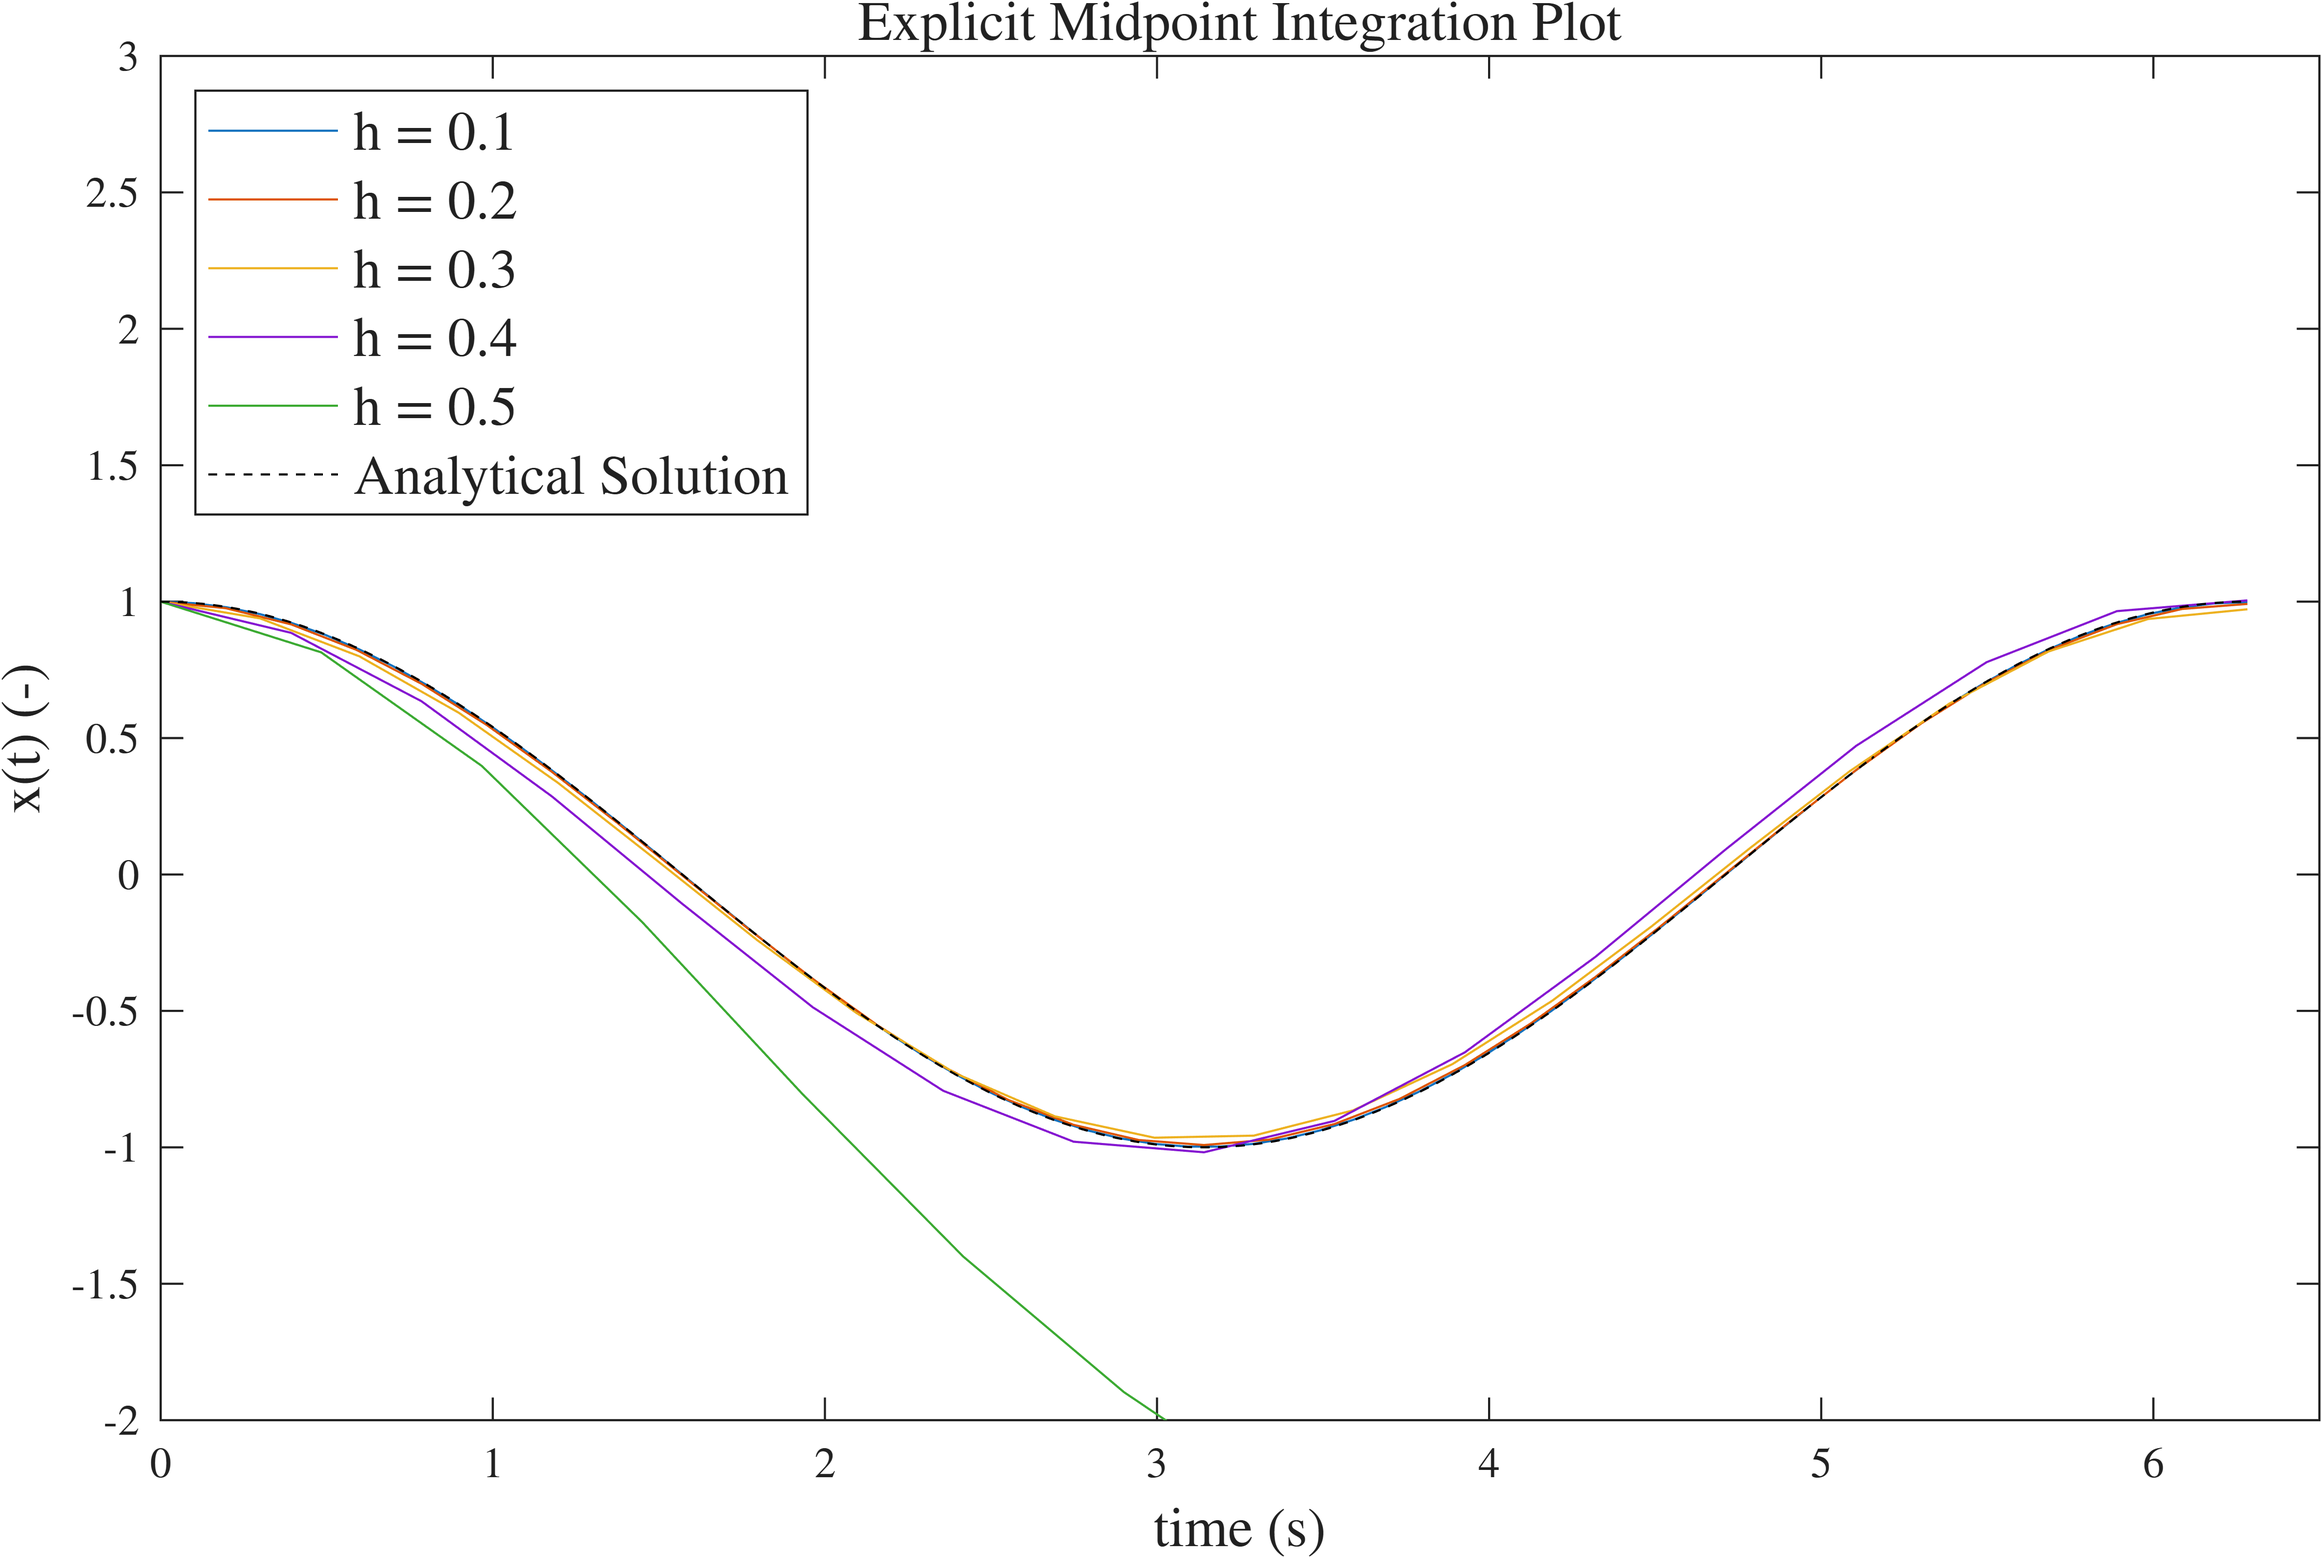
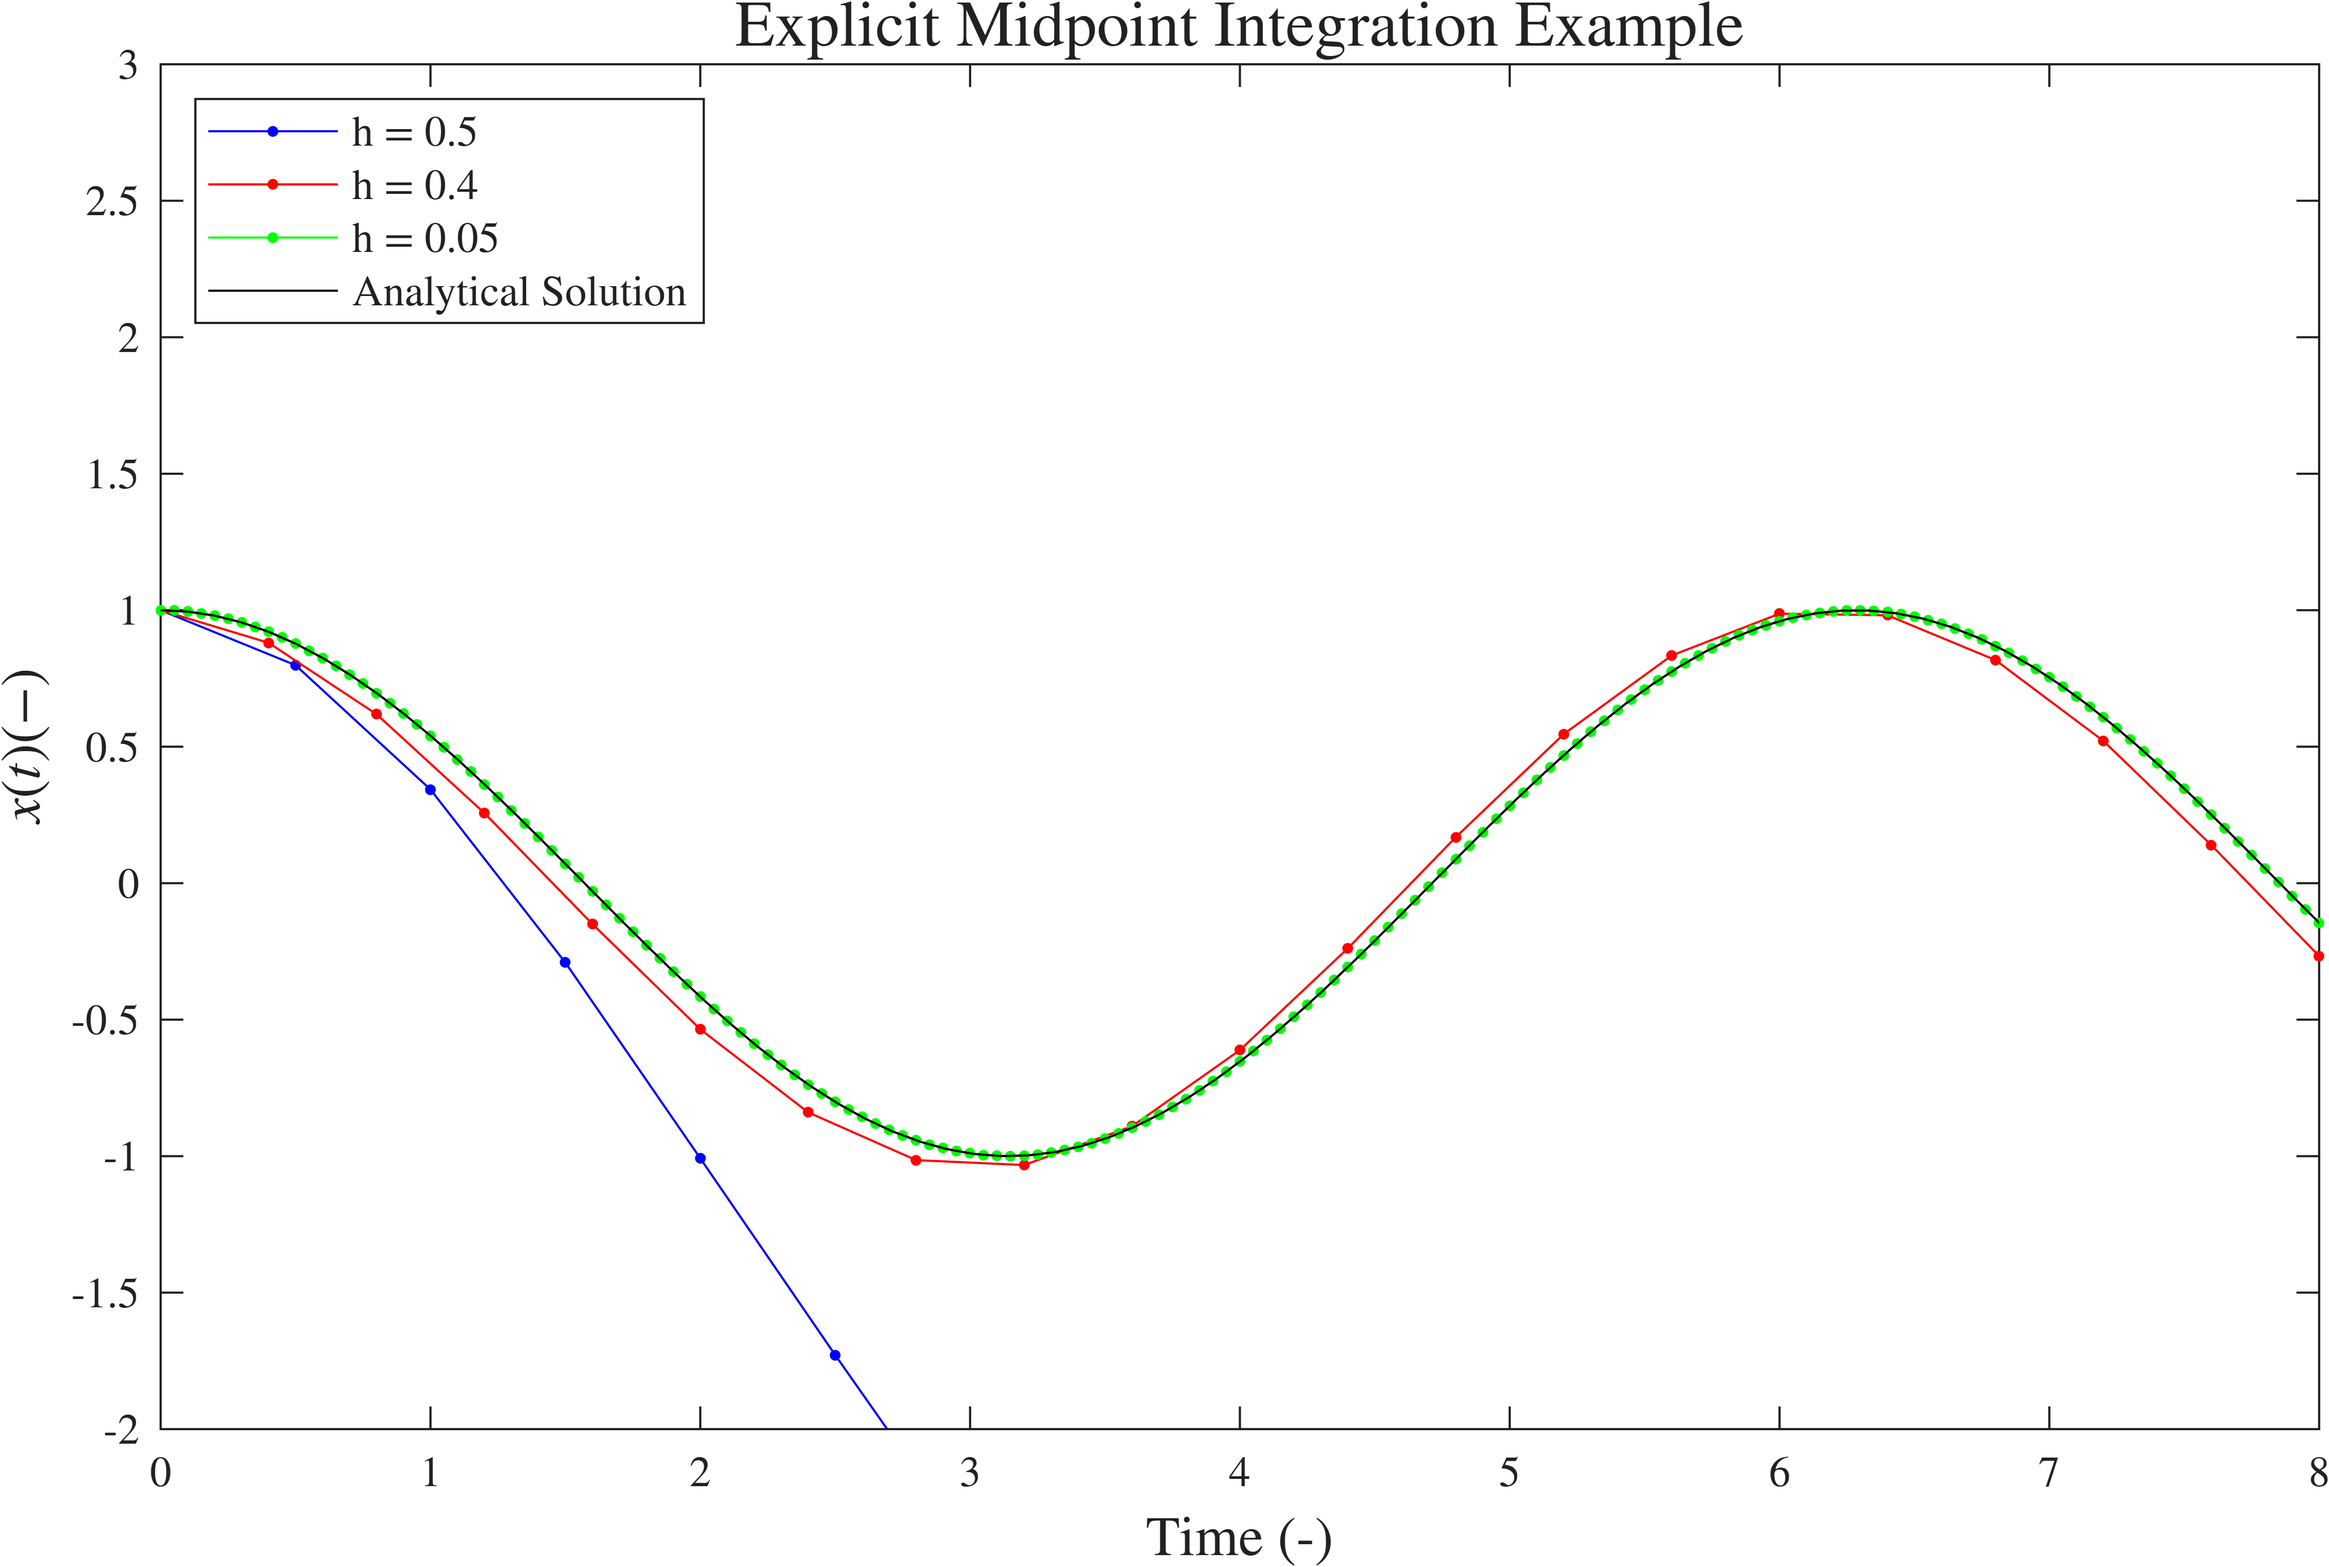
plots

diff --git a/stability_plot.m b/stability_plot.m
@@ -6,12 +6,12 @@ function stability_plot()
     set(groot, 'defaultAxesTickLabelInterpreter', 'latex');
     set(groot, 'defaultLegendInterpreter', 'latex');
     functions = ["forward_euler_step", "explicit_midpoint_step", "implicit_midpoint_step","backward_euler_step"];
-    names = ["Forward Euler Step", "Explicit Midpoint Step", "Implicit Midpoint Step","Backward Euler Step"];
+    names = ["Forward Euler", "Explicit Midpoint", "Implicit Midpoint Step","Backward Euler Step"];
 
 
     tspan = [0,20];
     X0 = solution01(tspan(1));
-    h = .45
+    h = .38
     t = tiledlayout(4, 1, 'TileSpacing', 'compact', 'Padding', 'compact');
     for i = 1:length(functions)
             nexttile
@@ -19,24 +19,27 @@ function stability_plot()
         step_func = str2func(functions(i));
         [t_list,numerical_Xlist,h_avg, num_evals] = fixed_step_integration(@rate_func01,step_func,tspan,X0,h);
         %subplot(4,1,i);
-        plot(t_list, numerical_Xlist);
+        t_list2 = linspace(0,20,300);
+        analytical_Xlist = solution01(t_list2);
+        plot(t_list2, analytical_Xlist,'k','LineWidth',2)
         hold on
-        t_list = linspace(0,20,300);
-        analytical_Xlist = solution01(t_list);
-        plot(t_list, analytical_Xlist,'--k')
-        xlabel("time (s)",'FontSize',13)
-        ylabel("x(t) (-)",'FontSize',13)
-        title(names(i), 'FontSize',13)
+        plot(t_list, numerical_Xlist, 'ro','MarkerSize',4,'MarkerFaceColor','r');
+        plot(t_list, numerical_Xlist, 'r','LineWidth',1);
+
+        xlabel("Time (-)",'FontSize',15)
+        ylabel("$x(t) (-)$",'FontSize',15)
+        title(names(i), 'FontSize',15)
         axis([0 20 -2 3])
-    %     p = get(gca, 'Position');
+        ax = gca; 
+        ax.FontSize = 14;     %     p = get(gca, 'Position');
     % p(2) = p(2) - 0.05;  % Move bottom edge down
     % p(4) = p(4) + 0.05;  % Increase height
     % set(gca, 'Position', p);
     end
-    title(t, 'Integration Stability Plot at $h_{ref} = .45$', 'FontSize', 15, 'Interpreter', 'latex')    
+    title(t, 'Integration Stability Plot at $h_{ref} = .38$', 'FontSize', 15, 'Interpreter', 'latex')    
     l = legend("Numerical Solution","Analytical Solution",'FontSize',9 );
     l.Layout.Tile = 'north'; 
     l.FontSize = 13;
     myfig = gcf();
-    exportgraphics(myfig , 'stability_plot.png', 'Resolution', 600);
+    exportgraphics(myfig , 'stability_plot38.png', 'Resolution', 600);
 end

diff --git a/integration_plot.m b/integration_plot.m
@@ -4,23 +4,25 @@ function integration_plot(step_func)
     set(groot, 'defaultTextInterpreter', 'latex');
     set(groot, 'defaultAxesTickLabelInterpreter', 'latex');
     set(groot, 'defaultLegendInterpreter', 'latex');
-    tspan = [0,2*pi];
+    tspan = [0,20];
     X0 = solution01(tspan(1));
-    h_list = linspace(.1,1.5,5);
+    h_list = [.5,.4,.05];
     for i = 1:length(h_list)
+        color = ["blue","red","green"];
         [t_list,numerical_Xlist,h_avg, num_evals] = fixed_step_integration(@rate_func01,step_func,tspan,X0,h_list(i));
-        plot(t_list, numerical_Xlist)
+        plot(t_list, numerical_Xlist, 'Marker', 'o','Color',color(i),'MarkerSize',2,'MarkerFaceColor',color(i));
         hold on
+        %plot(t_list, numerical_Xlist,'Color',[h_list(i), h_list(i), h_list(i)])
     end
-    t_list = linspace(0,2*pi,200);
+    t_list = linspace(0,20,200);
     analytical_Xlist = solution01(t_list);
-    plot(t_list, analytical_Xlist,'--k')
-    l = legend("h = " + h_list(1), "h = " + h_list(2),"h = " + h_list(3),"h = " + h_list(4), "h = " + h_list(5),"Analytical Solution",'FontSize',9 );
-    legend('Location','northwest','FontSize',13)
-    xlabel("time (s)",'FontSize',13)
-    ylabel("x(t) (-)",'FontSize',13)
-    title("Implicit Midpoint Integration Plot",'FontSize',13)
-    axis([0 6.5 -2 3])
+    plot(t_list, analytical_Xlist,'k')
+    l = legend("h = " + h_list(1), "h = " + h_list(2),"h = " + h_list(3),"Analytical Solution",'FontSize',10 );
+    legend('Location','northwest','FontSize',10)
+    xlabel("Time (-)",'FontSize',13)
+    ylabel("$x(t) (-)$",'FontSize',13)
+    title("Explicit Midpoint Integration Example",'FontSize',15)
+    axis([0 8 -2 3])
     myfig = gcf();
-    exportgraphics(myfig , 'implicit_midpoint_integration_plot.png', 'Resolution', 600);
+    exportgraphics(myfig , 'explicit_midpoint_integration_plot.png', 'Resolution', 600);
 end
